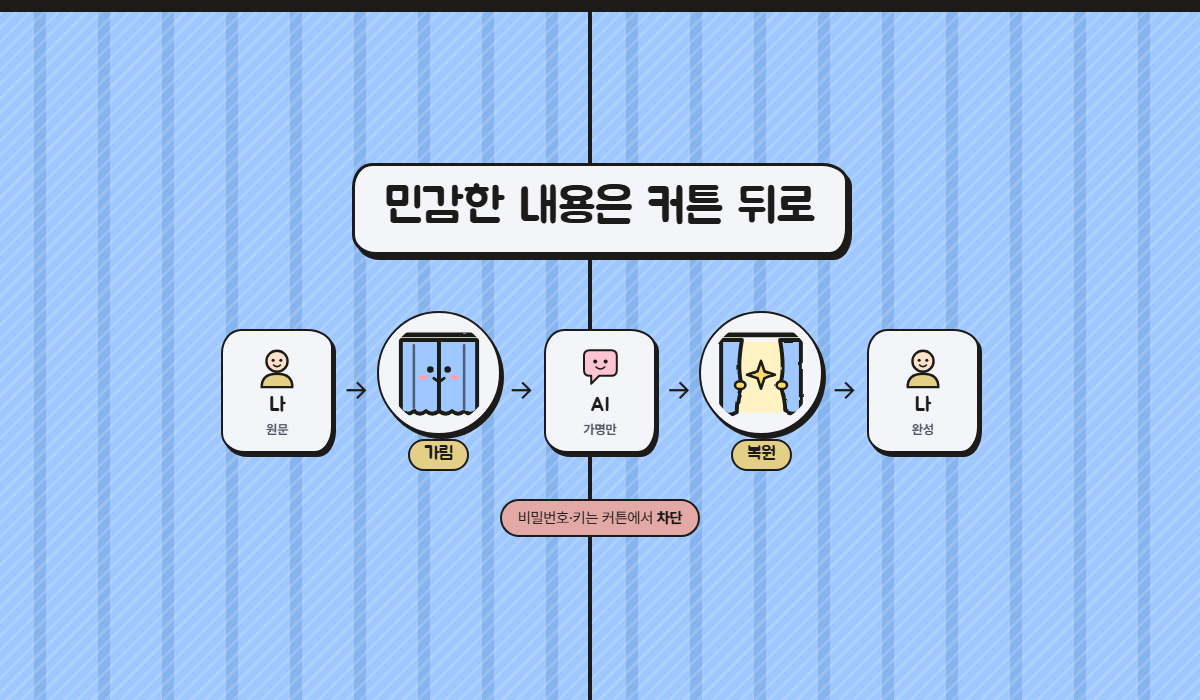
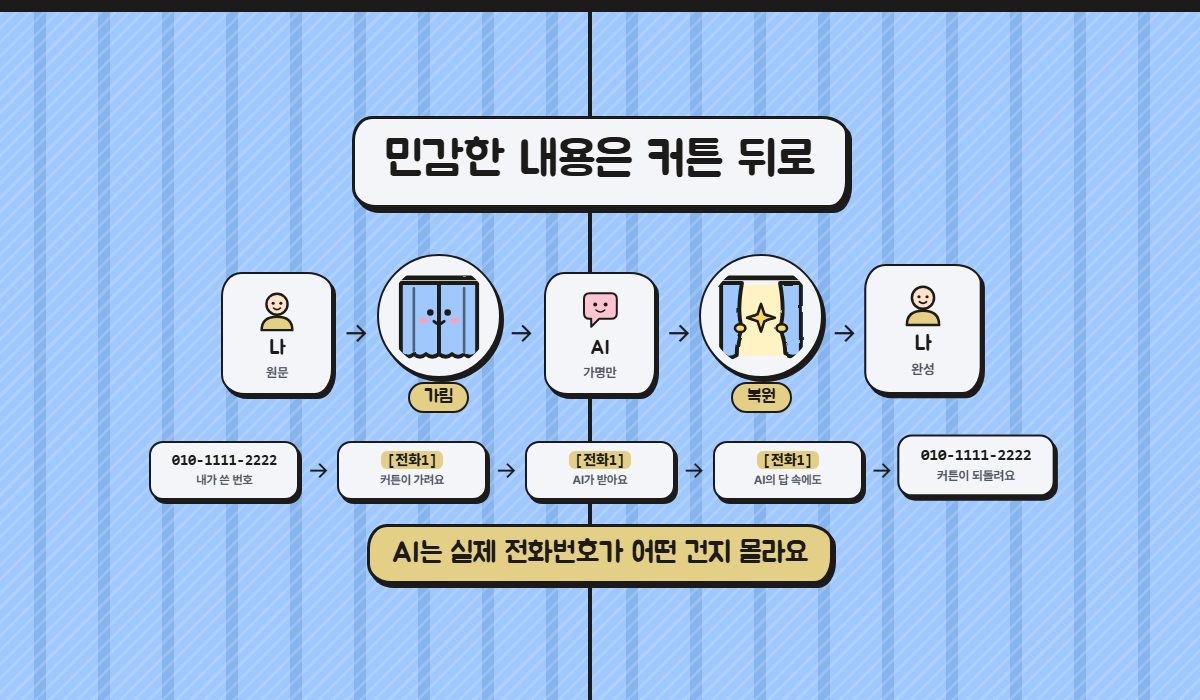
README를 GitHub 소개 형식의 합니다체로 다시 쓰고 화면 사진 3장을 공개 사이트에서 다시 촬영

Changed region(s): [[0.1233, 0.15, 0.8942, 0.84]]

diff --git a/README.md b/README.md
@@ -1,147 +1,110 @@
 # Curtain
 
-**외부 AI에 보내는 문장에서 민감한 값만 커튼 뒤로 가리는 정보 유출 방지 게이트웨이.**
+**외부 AI에 보내는 문장에서 민감한 값만 커튼 뒤로 가리는 정보 유출 방지 게이트웨이입니다.**
 
-회사 직원이 ChatGPT 같은 외부 생성형 AI에 보내는 문장을 **나가기 전에** 검사한다. 개인정보와 회사 기밀은 가명으로 바꿔 보내고 돌아온 답에서 원래 값으로 되돌리며, 비밀번호와 키는 아예 보내지 않는다. 학습용 포트폴리오 프로젝트이며 실제 서비스가 아니다.
+직원이 ChatGPT 같은 외부 생성형 AI에 업무 내용을 붙여 넣으면, 문장이 나가기 전에 검사합니다. 전화번호 같은 개인정보와 회사 기밀은 가명으로 바꿔 보내고, 돌아온 답에서 원래 값으로 되돌립니다. 비밀번호와 API 키는 아예 보내지 않습니다. 가상 회사(HTH)와 가짜 데이터로 만든 개인 프로젝트입니다.
 
-- **공개 시연:** <https://curtain-h8id.onrender.com/> (설치 없이 바로. 무료 서버라 한동안 접속이 없으면 잠들어 첫 접속은 1분쯤 걸린다)
-- **저장소:** <https://github.com/HTH-0/Curtain> (이전 이름 Deskguard, 2026-11-02 변경)
+**[공개 시연 열어 보기](https://curtain-h8id.onrender.com/)** (설치가 필요 없습니다. 무료 서버라 첫 접속은 1분쯤 걸릴 수 있습니다.)
 
 ![Curtain 첫 화면](./docs/images/hero.png)
 
-## 어떻게 동작하나
+## 동작 방식
 
-![나 → 닫힌 커튼(가림) → AI는 가명만 → 걷힌 커튼(복원) → 나](./docs/images/flow.png)
+![나, 닫힌 커튼(가림), AI는 가명만 봄, 걷힌 커튼(복원), 나](./docs/images/flow.png)
 
 | 처리 | 조건 | 동작 |
 |---|---|---|
-| 허용 | 탐지된 값이 없다 | 그대로 외부 AI로 보낸다 |
-| 가림 | 개인정보(D1)나 회사 코드명, 고객사(D3)가 있다 | 값을 `[전화1]` 같은 가명으로 바꿔 보내고, 답이 돌아오면 원래 값으로 되돌려 보여 준다 |
-| 경고 | 개인정보가 많다(20개 이상) | 포털에서는 확인을 받은 뒤 가려서 보낸다(AI 앱 연결에서는 확인할 방법이 없어 자동으로 가린다) |
-| 차단 | 자격증명(D2)이나 보안 등급 표시가 있다 | 보내지 않고 이유를 알린다 |
+| 허용 | 탐지된 값이 없습니다 | 그대로 보냅니다 |
+| 가림 | 개인정보, 회사 코드명, 고객사 이름이 있습니다 | `[전화1]` 같은 가명으로 바꿔 보내고, 돌아온 답에서 원래 값으로 되돌립니다 |
+| 경고 | 개인정보가 20개 이상입니다 | 확인을 받은 뒤 가려서 보냅니다 |
+| 차단 | 비밀번호, API 키, 보안 등급 표시가 있습니다 | 보내지 않고 이유를 알립니다 |
 
-- 탐지는 정규식, 검증 숫자(카드 번호 등), 회사 사전으로 한다. **검사를 위해 민감한 문장을 다른 외부 서비스로 보내지 않는다.**
-- 로그에는 원문, 탐지한 값, 가명 대응표, API 키를 남기지 않는다(처리, 항목별 개수, 길이, 해시, 지연만 남긴다).
-- 왜 만드는지는 [문제 정의서](./docs/problem.md), 탐지 항목과 정책은 [정책서](./docs/policy.md)에 있다.
+- 탐지는 정규식, 검증 숫자(카드 번호 등), 회사 사전으로 합니다. 검사를 위해 민감한 문장을 다른 외부 서비스로 보내지 않습니다.
+- 로그에는 원문, 탐지한 값, 가명 대응표, API 키를 남기지 않습니다.
+- 대화는 서버에 저장하지 않습니다.
 
 ## 써 보기
 
-공개 사이트에서 아래로 내리면 세 구간이 차례로 나온다.
-
-| 구간 | 하는 일 |
+| 방법 | 내용 |
 |---|---|
-| **바로 체험하기** | 포털의 예시 버튼(가림 파랑, 차단 빨강, 경고 주황, 허용 초록)을 눌러 본다. 키가 없으면 **시연 모드**라 외부 AI를 부르지 않는다. 예시에는 미리 써 둔 모범 답이 오고, 답 속 가명은 실제로 복원된다 |
-| **내 키로 써 보기** | 내 Gemini 키([Google AI Studio](https://aistudio.google.com/apikey)에서 무료 발급)를 넣으면 같은 포털에서 실제 Gemini의 답을 받는다 |
-| **내 앱에 연결하기** | Chatbox 같은 OpenAI 방식 앱의 API 호스트에 사이트 주소, API 키에 내 Gemini 키, 모델에 `curtain`을 넣으면 내 PC의 앱도 Curtain을 거친다 |
+| 바로 체험하기 | 예시 버튼을 누르면 가림, 차단, 경고, 허용을 확인할 수 있습니다. 외부 AI를 부르지 않는 시연 모드이며, 미리 써 둔 답 속 가명은 실제로 복원됩니다 |
+| 내 키로 써 보기 | 내 Gemini 키([Google AI Studio](https://aistudio.google.com/apikey)에서 무료 발급)를 넣으면 실제 Gemini의 답을 받습니다 |
+| 내 앱에 연결하기 | Chatbox 같은 OpenAI 방식 앱의 API 호스트에 사이트 주소, API 키에 내 Gemini 키, 모델에 `curtain`을 넣으면 앱의 모든 대화가 Curtain을 거칩니다 |
 
-![포털의 커튼 기록: 내가 쓴 문장, AI가 받은 문장, 되돌린 값](./docs/images/portal-demo.png)
+![커튼 기록: 내가 쓴 문장, AI가 받은 문장, 되돌린 값](./docs/images/portal-demo.png)
 
-가림이 일어나면 답마다 **커튼 기록**이 붙는다: 내가 쓴 문장(가려진 값), AI가 받은 문장(가명), 답에서 되돌린 값(밑줄). 답 위에는 `실제 Gemini 답` 또는 `시연용 예시 답`이 표시된다.
+가림이 일어나면 답마다 **커튼 기록**이 붙어, 내가 쓴 문장과 AI가 받은 문장과 되돌린 값을 비교해 볼 수 있습니다.
 
-**키 처리 원칙(FR-12):** 키는 방문자의 브라우저 탭에만 보관하고 탭을 닫으면 사라진다. 요청마다 헤더로 서버에 보내고, 서버는 그 요청에만 쓰며 저장하거나 기록하지 않는다. Gemini에도 주소가 아니라 헤더로 보낸다. 다른 서비스의 키를 Google로 보내지 않도록 Google 키 형식(`AIza…`, `AQ.…`)만 받는다.
-
-> 공개 시연 서버에서는 원문이 서버까지는 간다(저장하지 않는다). 실제 개인정보는 넣지 않는다. 회사에서 실제로 쓰려면 같은 서버를 **회사 안에 설치**해 원문이 회사 밖으로 나가지 않게 하는 것이 이 제품의 전제이다.
+- 내 Gemini 키는 브라우저 탭에만 보관하며, 서버는 그 요청에만 쓰고 저장하거나 기록하지 않습니다.
+- 공개 시연 서버에는 문장이 한 번 도착합니다. 실제 개인정보는 넣지 마세요. 회사에서 쓸 때는 같은 서버를 사내에 설치해 원문이 밖으로 나가지 않게 하는 것을 전제로 합니다.
+- OpenAI 호환 입구는 `POST /v1/chat/completions`와 `GET /v1/models`입니다. 글자만 받으므로 Chatbox에서는 이미지와 도구 사용 설정을 끄세요.
 
 ## 측정 결과
 
-평가 세트는 생성형 AI 3종이 만든 업무 요청 틀에 코드가 만든 **가짜 값**을 채운 합성 문장이다(596문장). 측정 전에 평가 세트, 탐지 설정, 대량 기준을 해시로 동결했고 결과를 보고 규칙을 바꾸지 않았다. 윌슨 95% 구간은 괄호에 적었다. 자료와 재현 방법은 [평가 자료](./docs/eval/README.md)에 있다.
+596개의 합성 문장(생성형 AI가 만든 업무 요청 틀에 코드가 만든 가짜 값을 채운 문장)으로 측정했습니다. 평가 세트와 탐지 설정은 측정 전에 해시로 고정했고, 결과를 보고 규칙을 바꾸지 않았습니다. 재현 방법은 [평가 자료](./docs/eval/README.md)에 있습니다.
 
 | 지표 | 결과 |
 |---|---|
-| X: 개인정보(D1) 탐지율 | 98.1% (97.0~98.8%) |
-| X: 자격증명(D2) 탐지율 | 81.7% (75.4~86.6%) |
-| X: 회사 기밀(D3) 탐지율 | 100% (96.8~100%) |
-| Y: 정상 문장 오탐율 | 0 / 106 (0~3.5%) |
-| T: 검사, 가림, 복원 지연 | 서버 중앙값 0ms, 95백분위 1ms 이하 |
-| 우회 시험(변형 96문장) | 25개만 탐지(26%), 변형하지 않은 대조는 24/24 ([보고서](docs/eval/results/report_bypass_v1.md)) |
-| Z: 가림 후 답의 쓸모 | 사람 판정 45쌍: 원문으로 쓸 수 있는 답 36개 중 33개는 가려서 보내도 쓸 수 있음(91.7%, 약 78~97%). 복원 성공 92.0%. 자동 채점(Jev)은 사람과 48.9%만 일치해 채택하지 않음([보고서](docs/eval/results/report_z_v1.md)) |
-| Z 2차: 가림 요청에 가명 안내문을 붙였을 때 | 값 보존 84.5% → 99.6%(코드 지표), 복원 성공 92.0% → 93.9%(차이 불확실). 사람 판정은 하지 않음([보고서](docs/eval/results/report_z2_v1.md)) |
+| 개인정보 탐지율 | 98.1% |
+| 자격증명 탐지율 | 81.7% |
+| 회사 기밀 탐지율 | 100% (사전과 같은 값을 넣은 결과입니다) |
+| 정상 문장 오탐 | 0 / 106 |
+| 처리 지연 | 서버 중앙값 0ms, 95백분위 1ms 이하 |
+| 가려도 답을 쓸 수 있는 비율 | 91.7% (사람이 판정한 45쌍 중, 원문으로 쓸 수 있던 답 36개 가운데 33개) |
+| 우회 문장 탐지율 | 26% (변형 96문장 중 25개) |
 
-**한계를 먼저 적는다.**
+상세 수치와 신뢰구간은 [탐지 보고서](./docs/eval/results/report_xyt_v1.md), [우회 보고서](./docs/eval/results/report_bypass_v1.md), [가림 후 유용성 보고서](./docs/eval/results/report_z_v1.md)에 있습니다.
 
-- 놓친 정답은 **비밀번호**(값만 있는 형태 33건)와 **계좌 번호**(은행이나 "계좌" 같은 문맥어가 없는 형태 16건) 두 항목뿐이다. 규칙 기반 탐지는 값 모양만으로 이 둘을 구분하지 못한다.
-- 합성 문장이라 실제 직원 문장보다 탐지율이 높게 나왔을 수 있다. D3의 100%는 사전과 같은 값을 넣었기 때문이다(사전에 없는 이름은 탐지하지 못한다).
-- 우회에 약하다. 전각 숫자, 한글 숫자(`공일공…`), 이메일 `at` 표기, 키 쪼개기, 글자 띄어쓰기, 보이지 않는 문자를 넣으면 대부분 통과한다. 입력 정규화는 후속 개선 후보이다.
-- 사용자 인증과 요청 수 제한이 없다. 모델이 답에 가명을 쓰지 않으면 복원할 것이 없다. 남은 위험은 [open-risks.md](./docs/open-risks.md)에 있다.
+**한계**
+
+- 전각 숫자, 한글 숫자, 글자 띄어쓰기 같은 우회에 약합니다. 입력 정규화가 다음 과제입니다.
+- 값 모양만으로는 구분할 수 없는 비밀번호와 계좌 번호를 놓칩니다.
+- 합성 문장으로 측정해서 실제 직원 문장보다 높게 나왔을 수 있습니다.
+- 사용자 인증이 없고, 모델이 답에 가명을 쓰지 않으면 복원할 것이 없습니다. 남은 위험은 [open-risks.md](./docs/open-risks.md)에 정리했습니다.
 
 ## 실행하기
 
-필요한 것: JDK 25, Maven 3.9, Python 3. API 키 없이 시연과 시험이 된다.
+JDK 25, Maven 3.9, Python 3이 필요합니다. API 키 없이 시연과 시험이 됩니다.
 
 ```bash
-# 키 없이 시연 (http://localhost:8080). 공개 사이트와 같은 모드이며, 화면에서 내 키를 넣으면 실제 Gemini를 쓴다
+# 키 없이 시연 (http://localhost:8080)
 cd backend
 mvn spring-boot:run "-Dspring-boot.run.arguments=--gateway.demo-answer=true"
 
-# 서버 키로 실제 Gemini (환경변수 GEMINI_API_KEY 필요, 키는 파일이나 대화에 쓰지 않는다)
+# 서버 키로 실제 Gemini (환경변수 GEMINI_API_KEY 필요)
 mvn spring-boot:run
 
-# 자동 시험 (키 없이 통과한다: Java 183건, Python 79건)
-cd backend && mvn -B test
-cd backend/scripts && python -m unittest test_fake_values test_measure test_build_eval_set test_build_bypass_set test_z_measure
+# 자동 시험: Java 183건, Python 79건
+mvn -B test
+cd scripts && python -m unittest test_fake_values test_measure test_build_eval_set test_build_bypass_set test_z_measure
 ```
 
-- 측정(X·Y·T, 우회, Z)의 재현 방법은 [docs/eval/README.md](./docs/eval/README.md)에 있다.
-- 공개 배포는 저장소의 `Dockerfile`(시연 모드, 키 없음)로 Render에서 한다. `main`에 올리면 자동으로 다시 배포된다.
-
-## 기존 AI 도구를 연결하기 (OpenAI 호환 입구)
-
-게이트웨이는 `POST /v1/chat/completions`와 `GET /v1/models`를 연다. OpenAI 방식으로 말하는 도구(Chatbox, 공식 OpenAI SDK 등)는 **서버 주소만 바꾸면** 모든 대화가 검사를 거친 뒤 Gemini로 나간다.
-
-| 설정 | 값 |
-|---|---|
-| 주소(Base URL) | `https://curtain-h8id.onrender.com/v1` 또는 `http://localhost:8080/v1` (Chatbox는 API 호스트에 `/v1` 없이) |
-| API 키 | 내 Gemini 키(그 요청에만 쓴다). 형식이 아닌 값이면 서버 기본 응답(공개 서버는 시연) |
-| 모델 | `curtain` |
-
-```python
-from openai import OpenAI
-client = OpenAI(base_url="http://localhost:8080/v1", api_key="내 Gemini 키 또는 아무 값")
-print(client.chat.completions.create(model="curtain",
-      messages=[{"role": "user", "content": "김민수 010-2345-6789 에게 안내 메일 써 줘"}]).choices[0].message.content)
-```
-
-- 가림이면 답 맨 앞에 `[Curtain] 휴대전화 1건을 가려서 보냈습니다.` 같은 한 줄이 붙고, 가명은 원래 값으로 되돌려진다. 차단이면 403 오류(`curtain_blocked`)로 알린다.
-- 대화는 서버에 저장하지 않는다. 클라이언트가 매 턴 대화 전체를 다시 보내므로 매번 처음부터 가린다.
-- 글자만 받는다(이미지와 도구 호출은 400). Chatbox는 모델 설정에서 이미지와 `도구 사용`을 꺼 둔다. 대화 전체는 2만 자까지이다.
+공개 사이트는 저장소의 `Dockerfile`로 Render에 배포하며, `main`에 올리면 자동으로 다시 배포됩니다.
 
 ## 구조
 
 ```
 backend/src/main/java/com/promptgateway/
-  detect/      탐지(개인정보, 자격증명, 회사 사전)와 처리 결정
-  mask/        가림(가명 만들기)과 복원
-  gateway/     처리 순서(포털용 ChatGateway, 대화용 ConversationGateway)
-  controller/  포털 API(/api/chat, /api/info)
-  compat/      OpenAI 호환 입구(/v1)
+  detect/      탐지와 처리 결정
+  mask/        가명 만들기와 복원
+  gateway/     처리 순서
+  controller/  포털 API
+  compat/      OpenAI 호환 입구
   service/     응답 모델(서버 키 Gemini, 방문자 키 Gemini, 시연 응답)
-  log/         감사 로그(원문과 값 없이 한 줄)
-backend/src/main/resources/static/   포털 화면 한 장(외부 라이브러리 없음, 글꼴과 그림은 저장소에 직접)
+  log/         원문 없는 감사 로그
+backend/src/main/resources/static/   포털 화면 한 장(외부 라이브러리 없음)
 backend/scripts/                     평가 세트 생성과 측정 도구(Python)
-docs/                                문제 정의, 정책, 명세, 설계, 평가 자료, 작업 기록
+docs/                                문제 정의, 정책, 명세, 설계, 평가 자료
 ```
 
-## 개발 방식과 역할
+## 개발 방식
 
-SDD와 TDD를 병행했다. 기획은 문제 정의 → 정책 → 명세([`spec.md`](./docs/spec.md)) → 설계([`design.md`](./docs/design.md)) → 작업 목록([`tasks.md`](./docs/tasks.md)) 순서로 확정하고, 구현은 수용 기준(AC)에서 실패하는 시험을 먼저 쓴 뒤 최소 코드로 통과시켰다. 구현 중에 명세의 빈칸이 드러나면 코드보다 명세를 먼저 고쳤다. 탐지율처럼 확률적인 품질은 시험이 아니라 측정으로 검증했다. 결정의 근거는 [`DECISIONS.md`](./DECISIONS.md)에 후보, 선택, 이유로 남겼다.
+명세를 먼저 쓰고(SDD) 실패하는 시험을 먼저 만든 뒤 구현했습니다(TDD). 문서 순서는 [문제 정의](./docs/problem.md), [정책](./docs/policy.md), [명세](./docs/spec.md), [설계](./docs/design.md)입니다. 탐지율처럼 확률적인 품질은 시험이 아니라 측정으로 검증했습니다.
 
-| 역할 | 사용자 | AI(Claude Code) |
-|---|---|---|
-| 기획 | 주제와 범위 결정, 문제 정의 확정, 각 단계 계획 승인 | 문서 초안, 후보 비교와 권고 |
-| 구현 | 방향 결정과 검토(예: 내 키로 쓰기, 커튼 기록, 디자인 방향) | 시험과 코드 작성, 문서 갱신 |
-| 검증 | 실제 Gemini, Chatbox, 공개 사이트에서 직접 확인, Z 사람 판정 | 자동 시험, 가짜 Gemini와 브라우저 자동화로 확인, 측정 도구 실행 |
-| 디자인 | 화풍, 캐릭터, 색, 문구 결정 | 그림(SVG)과 화면 구현 |
+코드의 대부분은 Claude Code가 작성했습니다. 저는 주제와 범위, 설계 방향, 검토, 실제 Gemini와 Chatbox와 공개 사이트에서의 동작 확인, 사람 판정을 맡았습니다.
 
-주제를 한 번 바꿨다(2026-10-29, 사내 HR 헬프데스크 챗봇의 입력 가드레일에서 정보 유출 방지 게이트웨이로). 이전 자료는 [`docs/archive/`](./docs/archive/README.md)에 있고 경위는 [작업 일지](./docs/worklog.md)에 있다. 이어서 작업하려면 [`docs/handoff.md`](./docs/handoff.md)를 먼저 읽는다.
+처음에는 사내 HR 챗봇의 프롬프트 주입 방어 게이트웨이를 만들다가 2026-10-29에 지금 주제로 바꿨습니다. 결정의 근거([DECISIONS.md](https://github.com/HTH-0/Curtain/blob/dev/DECISIONS.md))와 전체 작업 기록, 이전 주제의 자료는 [`dev` 브랜치](https://github.com/HTH-0/Curtain/tree/dev)에 있습니다.
 
-## 데이터 출처와 라이선스
+## 출처와 라이선스
 
-| 자료 | 어디에 있나 | 출처와 조건 |
-|---|---|---|
-| 업무 요청 틀, 평가 세트의 값 | `docs/eval/` | 생성형 AI가 만든 문장과 무작위 가짜 값 |
-| 글꼴 Pretendard, Jua | `backend/src/main/resources/static/fonts/` | SIL Open Font License 1.1 |
-| 그림(커튼 캐릭터 등) | `backend/src/main/resources/static/img/` | 이 프로젝트에서 직접 그린 SVG |
-| deepset/prompt-injections, JailbreakBench | `docs/archive/dataset.csv`의 일부 행(주제를 바꾸기 전 자료, 보관) | Apache-2.0, MIT(인용 요청 있음) |
-| KOICA 인사규정 질의응답 세트 | `docs/archive/eval-hr/`(보관) | 한국국제협력단, 공공데이터포털, 이용허락범위 제한 없음(출처 표시) |
-
-전체 출처, 라이선스 전문, 인용은 [THIRD_PARTY_NOTICES.md](./THIRD_PARTY_NOTICES.md)에 있다. 이 저장소의 자체 코드와 문서의 라이선스는 아직 정하지 않았다.
+글꼴(Pretendard, Jua)은 SIL Open Font License 1.1이고, 그림은 직접 그린 SVG이며, 평가 데이터의 값은 코드가 만든 가짜 값입니다. 자세한 내용은 [THIRD_PARTY_NOTICES.md](./THIRD_PARTY_NOTICES.md)에 있습니다. 코드는 열람용으로 공개하며 별도의 라이선스 파일은 없습니다.
